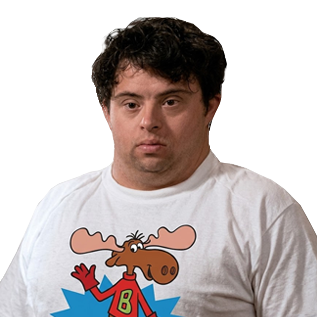
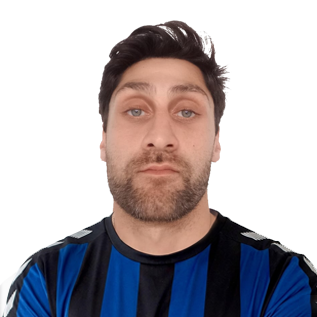
feat: add player country flags to lists and fix visibility

diff --git a/app/src/app/clasificacion/LeaderboardClient.tsx b/app/src/app/clasificacion/LeaderboardClient.tsx
@@ -73,6 +73,14 @@ export default function LeaderboardClient({
                   </td>
                   <td>
                     <Link href={`/plantilla/${player.id}`} className="flex items-center gap-sm">
+                      {player.country && (
+                        <img
+                          src={`https://flagcdn.com/w20/${player.country.toLowerCase()}.png`}
+                          alt={player.country}
+                          title={player.country}
+                          style={{ width: '20px', height: 'auto', borderRadius: '2px' }}
+                        />
+                      )}
                       <PlayerAvatar
                         name={player.name}
                         photoUrl={getPlayerPhotoUrl(player.photo_url)}
@@ -113,6 +121,14 @@ export default function LeaderboardClient({
                         <span className="text-muted font-semibold">{index + 1}</span>
                       )}
                     </div>
+                    {player.country && (
+                      <img
+                        src={`https://flagcdn.com/w20/${player.country.toLowerCase()}.png`}
+                        alt={player.country}
+                        title={player.country}
+                        style={{ width: '20px', height: 'auto', borderRadius: '2px' }}
+                      />
+                    )}
                     <PlayerAvatar
                       name={player.name}
                       photoUrl={getPlayerPhotoUrl(player.photo_url)}
@@ -162,6 +178,14 @@ export default function LeaderboardClient({
                         <span className="text-muted font-semibold">{index + 1}</span>
                       )}
                     </div>
+                    {player.country && (
+                      <img
+                        src={`https://flagcdn.com/w20/${player.country.toLowerCase()}.png`}
+                        alt={player.country}
+                        title={player.country}
+                        style={{ width: '20px', height: 'auto', borderRadius: '2px' }}
+                      />
+                    )}
                     <PlayerAvatar
                       name={player.name}
                       photoUrl={getPlayerPhotoUrl(player.photo_url)}

diff --git a/app/src/components/players/PlayerCard.tsx b/app/src/components/players/PlayerCard.tsx
@@ -34,6 +34,14 @@ export function PlayerCard({ player, index = 0, onClick, selected }: PlayerCardP
             Puntuación: {player.total_score}
           </div>
         </div>
+        {player.country && (
+          <img
+            src={`https://flagcdn.com/w20/${player.country.toLowerCase()}.png`}
+            alt={player.country}
+            title={player.country}
+            style={{ width: '20px', height: 'auto', borderRadius: '2px' }}
+          />
+        )}
       </div>
 
       <div className="flex flex-col gap-xs">

diff --git a/app/src/app/layout.tsx b/app/src/app/layout.tsx
@@ -12,13 +12,13 @@ const inter = Inter({
 });
 
 export const metadata: Metadata = {
-  title: 'Equipos Balanceados ⚽ | Gestión de Fútbol Amateur',
+  title: 'Equipos Balanceados ⚽ | ECFC',
   description:
     'Plataforma de gestión y balanceo de equipos para fútbol amateur. Genera equipos equilibrados, consulta estadísticas, goleadores y clasificaciones.',
   keywords: ['fútbol', 'equipos', 'balanceo', 'amateur', 'estadísticas', 'matchmaker'],
   openGraph: {
-    title: 'Equipos Balanceados ⚽',
-    description: 'Plataforma de gestión y balanceo de equipos para fútbol amateur.',
+    title: 'Equipos Balanceados ⚽ | ECFC ⚽',
+    description: 'Datos, estadísticas y rendimiento dentro y fuera del campo',
     type: 'website',
   },
 };